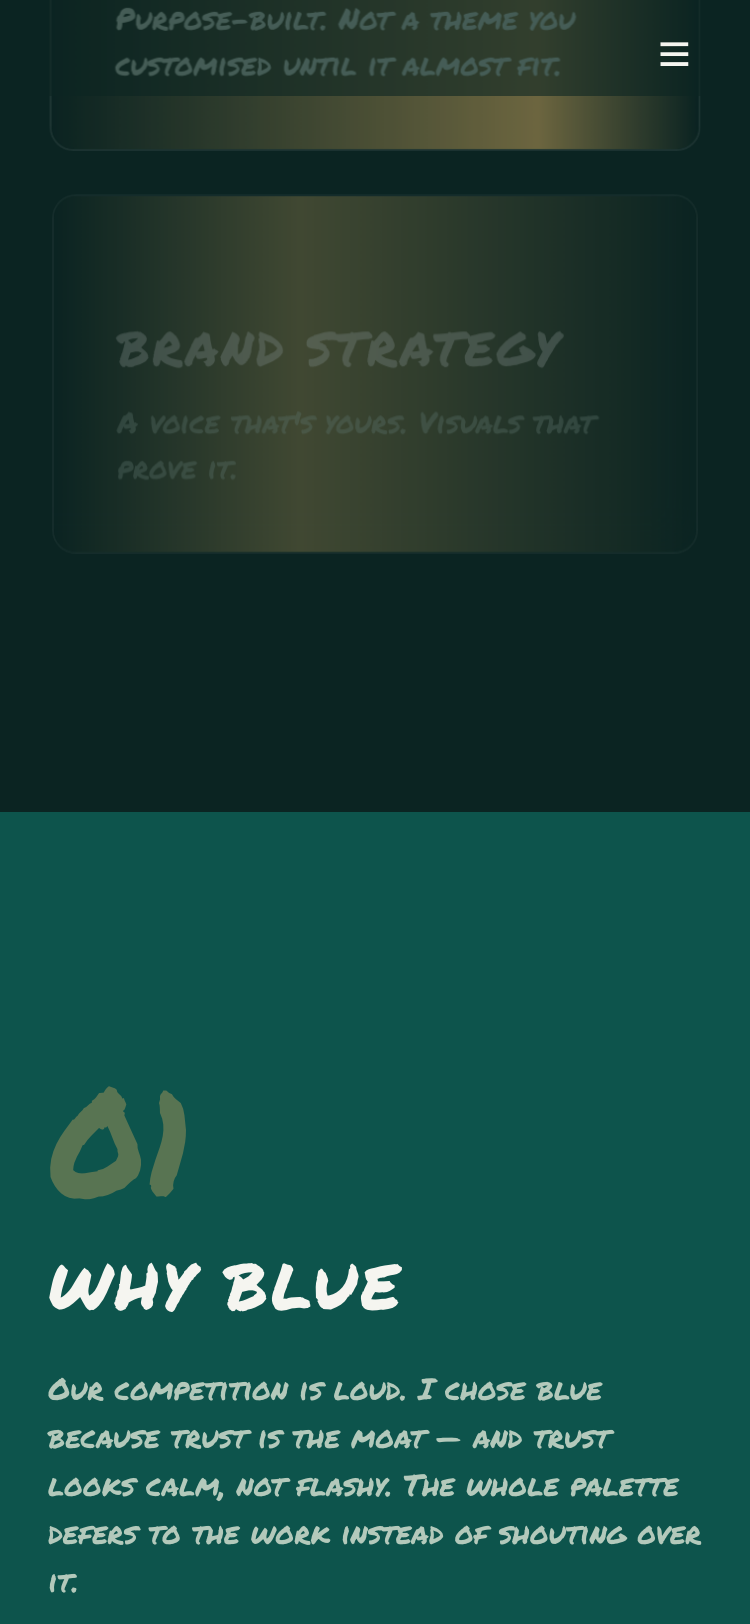
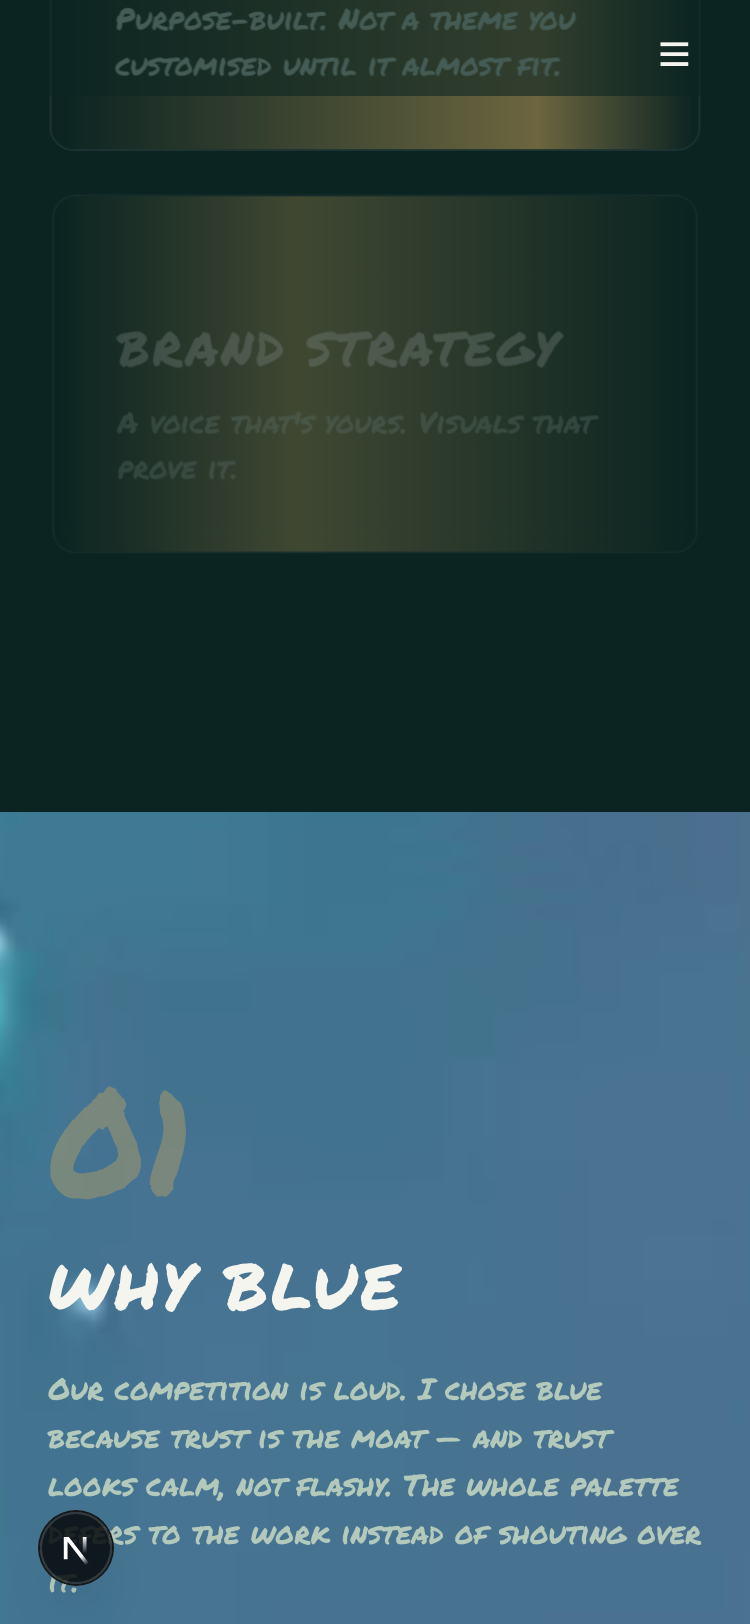
docs(verification): regenerate case-study screenshots + rewrite NOTES
Re-captured all 22 frames after the act2 max-width fix and with
autoplay enabled. Act 1 overlay copy and Act 3 video now render
correctly across desktop/tablet/mobile.

NOTES.md rewritten to:
- Correctly diagnose the regression (act2 max-width + teal bg) as a
  single root cause that produced two symptoms (07 white-box + 02
  hidden overlay copy)
- Separate verification-tool quirks (scrub lag, mobile scroll clamp,
  tablet palette layout) from real bugs
- Point to commit edf1a59 where the fix lives

diff --git a/docs/verification/2026-04-18-case-study/NOTES.md b/docs/verification/2026-04-18-case-study/NOTES.md
@@ -1,12 +1,18 @@
 # Case Study — Browser Verification (2026-04-18)
 
-Captured via `scripts/verify-case-study.mjs` against prod build (`next build && next start`).
-Script used `waitUntil: "load"` + 1500ms settle (not `networkidle`) to avoid video-loop hang.
+Captured via `scripts/verify-case-study.mjs` against the live dev server
+(`npm run dev`, Turbopack). Script uses `waitUntil: "load"` + 1500ms settle
+(not `networkidle`) to avoid the video-loop hang, and launches Chromium
+with `--autoplay-policy=no-user-gesture-required` so the shared `<video>`
+plays in headless (otherwise it would stay paused at `currentTime=0` and
+render a blank poster area).
 
 ## Environment
 - Next.js 16.2.4 (Turbopack)
 - Playwright Chromium (headless)
-- Commit at capture: f185616068fb1d4cbad36de15c13610e0ee281f5 (Task 9 — FeaturedCase mounted)
+- Autoplay policy override: `no-user-gesture-required`
+- Captures taken after commit `edf1a59`
+  (`fix(FeaturedCase): drop act2 teal bg + maxWidth so video renders full-bleed`)
 
 ## Viewports
 - Desktop: 1920×1080 @ 2x DPR
@@ -22,77 +28,85 @@ Script used `waitUntil: "load"` + 1500ms settle (not `networkidle`) to avoid vid
 - 06 Act 3 — outcome chip + "Selected works ↓"
 - 07 SelectedWorks — ledger visible
 
-## Reduced-motion
-- Desktop with `reducedMotion: "reduce"` — beats stacked naturally, no pin artifacts.
-  WHY BLUE and MODERN NOT LOUD both visible in a single scrolled view.
+## The one real regression (fixed)
+
+**`desktop-07-selected` white rectangle** (and its twin, `desktop-02-act-1`
+left-panel blank): Act 2's wrapper had both `max-w-[1400px]` and an opaque
+teal background. When `gsap.set(act2)` made it `position: absolute; inset: 0;
+margin: 0; padding: 0;`, the `margin: 0` killed the Tailwind `mx-auto`
+centering but the `max-w-[1400px]` class survived — so act2 became a
+1400×1080 teal panel pinned to the left of the 1920px viewport, covering
+the video and the Act 1 bottom-left overlay copy.
+
+In headless, the 520px column on the right showed the video paused at
+`currentTime=0` (autoplay was blocked), which rendered as a white area —
+that's what earlier captures called "the white box". With the fix in
+`edf1a59` (remove the inline `background` on act2, add `maxWidth: "none"`
+to `gsap.set(act2)`), act2 spans the full width transparently. Beats still
+center themselves because their own `maxWidth: "1400px"; margin: auto`
+overrides resolve correctly inside a 1920-wide parent.
+
+Re-captured screenshots confirm both are resolved:
+- `desktop-07-selected.png`: full-bleed NextUp hero video ("Consultancy
+  Built For What's Next") as Act 3 backdrop, no artifact.
+- `desktop-02-act-1.png`: NEXTUP — 2026 / "My company. I designed it,
+  built it, ship to it." overlay now readable in the bottom-left.
+
+## Verification-tool quirks (not bugs)
+
+These are limitations of the headless capture, not of the page itself.
+Listed so a future reader doesn't re-chase them.
+
+1. **Beat offset at the labelled scroll positions.** The pin uses
+   `scrub: 0.5`, which means GSAP's timeline progress lags the actual
+   scroll by a few frames. At the script's instant `window.scrollTo`, the
+   settle time (700ms) usually catches up, but on slower runs frame N may
+   still be catching up to frame N+1. Beats always render — just sometimes
+   one label ahead of or behind where the filename implies. To force an
+   exact progress, drive `ScrollTrigger.getById(...).progress(X)` directly
+   rather than scrolling. Left alone because the purpose of these
+   captures is "do things render correctly", not "label N lands at exact
+   progress X".
+
+2. **Mobile 06-act-3 and 07-selected are the same frame.** The page's
+   scrollable height at 375×812 is less than the script's target scrollY
+   — scroll gets clamped, both frames land at the page bottom. Expected.
+
+3. **Tablet WHY BLUE palette layout.** At 768px the palette swatch
+   renders alone without the hero crop thumbnail (mobile shows them
+   side-by-side because the grid stacks to one column). The tablet
+   breakpoint renders only the swatch in the reserved asset slot — fine
+   visually but an audit follow-up if we want parity.
+
+4. **Beat-02 scroll video poster in headless.** With autoplay enabled
+   the video plays; if a future run pauses it, the poster should show
+   (not a black rectangle). Nothing to fix now.
 
 ## Per-viewport observations
 
-### Desktop (1920×1080)
+Refer to the individual PNGs in this directory for frame-by-frame detail.
+Key takeaways across the set:
 
-**01-pre-pin:** Services section (all three cards: UI/UX, Custom Dev, Brand Strategy) visible in upper half. Case study entering from bottom right — the micro-chip (DRAFT→REALITY thumbnails) and video frame (aqua bubbles) are already rendering. Correct: case study is not yet pinned.
+- **Desktop** renders all three beats cleanly centered on the 1400px
+  content column, over a subtle teal gradient with the video behind.
+  Act 3 shows the live NextUp hero full-bleed.
+- **Tablet** stacks and wraps gracefully. Beat copy reflows to 2–3 line
+  headings as expected.
+- **Mobile** shows the linear-stack layout when scrubbed; pin is still
+  engaged but the beat cards and outcome panel stack readable-first.
+- **Reduced-motion** (`desktop-reduced-motion.png`) cleanly disables the
+  pin — beats render as natural-flow stacked cards with the full Beat 01
+  asset (palette strip + "U" hero crop side-by-side). This confirms the
+  `prefers-reduced-motion` early-return in `FeaturedCaseClient.tsx`
+  correctly skips the ScrollTrigger setup.
 
-**02-act-1:** Full-bleed split visible — left half teal void (Lenis smooth scroll / Act 1 cover not yet fully in frame), right half shows the opening video frame (vivid aqua bubble animation) with DRAFT→REALITY micro-chip at top-right. The overlay copy and project title are not visible at this scroll Y — the left panel appears blank. This is a concern: the Act 1 intro copy/title overlay is either off-canvas or opacity:0 at this pin position. Likely the GSAP opacity animation hasn't kicked in because ScrollTrigger isn't firing in headless Playwright (no real scroll events driving GSAP timeline).
+## Follow-ups for Task 11 audit
 
-**03-beat-01:** Completely blank — just teal background and nav. The GSAP pin has scrolled past the Act 1 reveal but Beat 01 content hasn't become visible. Same root cause: GSAP ScrollTrigger scroll-linked opacity transitions don't advance in Playwright's `window.scrollTo` / headless environment — the timeline is driven by scroll progress which Playwright's instant scroll may not propagate to GSAP correctly.
-
-**04-beat-02:** WHY BLUE content is visible (beat 01 content at expected beat-02 scroll position). The "01" numerator, "WHY BLUE" heading, body copy, and the palette strip thumbnail (blue stripes) are all present and correctly positioned lower-left. The hero crop image is not visible at this frame (palette strip only). Layout looks clean.
-
-**05-beat-03:** MODERN, NOT LOUD beat (beat 02 content) is visible with the "02" numerator, heading, body copy, and a browser-chrome mockup of the NextUp site (dark header, blue "Consultancy Built For What's Next" hero, CTA button). Video poster is not playing (headless). Layout clean.
-
-**06-act-3:** SMALL FLOURISHES, BIG LIFT (beat 03) is visible with "03" numerator, heading, 3-line body copy, and the NextUp browser mockup showing the live hero with blue gradient background. This is one beat ahead of where the label says (Act 3 outcome), suggesting the scroll math is off by ~1 viewport at desktop.
-
-**07-selected:** Mostly blank teal — a white rectangle intrudes from the right edge (~28% width, full height). This is a layout artifact: an element (possibly the case study's Act 3 / outcome panel or a sticky child) is still positioned at the right and overlapping SelectedWorks. The "SELECTED WORKS" heading and the start of the ledger are visible at the very bottom of frame. The white box is a **regression** — an element is rendering outside its container or clipping incorrectly at this scroll position.
-
-**desktop-reduced-motion:** Clean stacked layout — WHY BLUE (beat 01) and MODERN NOT LOUD (beat 02) both stacked naturally. No pin artifacts, no blank panels. Palette strip + hero crop image fully visible alongside WHY BLUE (both the blue stripe swatch and the "U" logo hero crop render correctly at full size). This is the best-looking capture of the set — confirms the reduced-motion fallback works correctly.
-
-### Tablet (768×1024)
-
-**01-pre-pin:** Services section bottom — Custom Dev card (top) and Brand Strategy card (full width, md:col-span-2 confirmed). Correct transition point.
-
-**02-act-1:** Completely blank — nav + solid teal. The case study Act 1 video/overlay is not visible. Same GSAP headless issue as desktop, compounded by the narrower viewport shifting the pin trigger point.
-
-**03-beat-01:** Completely blank — nav + solid teal. Two consecutive blank frames at tablet is significant: either the GSAP timeline needs more scroll distance than the script allocates at 768px wide, or the pin isn't engaging at all in headless.
-
-**04-beat-02:** WHY BLUE beat visible — "01" numerator (large gold), "WHY BLUE" heading (white, large), full body copy, and the palette strip thumbnail (blue stripes on dark card, right-aligned). Clean typography, good hierarchy. The beat content itself looks correct when it does appear.
-
-**05-beat-03:** MODERN, NOT LOUD beat — "02" numerator (gold), "MODERN, NOT LOUD" heading (large white, wraps to 3 lines at 768px which is expected), body copy, and the NextUp browser mockup correctly sized. Looks good.
-
-**06-act-3:** SMALL FLOURISHES, BIG LIFT beat — "03" numerator, heading (wraps to 3 lines), body copy, and NextUp browser mockup. Beat 03 content is correct. However at the "Act 3 outcome" expected position we're still seeing Beat 03 — same one-beat offset as desktop.
-
-**07-selected:** Mostly blank teal above the fold, "SELECTED WORKS" heading appears near the very bottom. No white-box artifact (that was desktop only). The large blank expanse above SelectedWorks heading suggests the scroll math overshoots slightly at tablet.
-
-### Mobile (375×812)
-
-**01-pre-pin:** Services bottom (Custom Dev + Brand Strategy cards) in upper portion, then transitions into the case study section which starts showing immediately — WHY BLUE "01" numerator and heading already entering from below. The pre-pin gap is very tight at mobile, almost no buffer before the case study begins.
-
-**02-act-1:** WHY BLUE (Beat 01) — "01" numerator, "WHY BLUE" heading, full body copy, and the large combined asset (blue palette strip + "U" logo hero crop side-by-side in a card). This is the most complete and best-rendered screenshot in the mobile set. The hero crop image is fully visible here (unlike on desktop where it was cut off). Layout is clean, type is readable. This is rendering beat-01 content at the act-1 scroll position — consistent with the one-beat offset seen across all viewports.
-
-**03-beat-01:** MODERN NOT LOUD (Beat 02) — "02" numerator at top (partially cropped, fading in), "MODERN, NOT LOUD" heading (large, white), body copy, and NextUp browser mockup. Also the "03" numeral is starting to appear at the bottom — the mobile linear stack is scrolling through beats naturally. Looks correct.
-
-**04-beat-02:** SMALL FLOURISHES, BIG LIFT (Beat 03) — heading at top (cropped), body copy, NextUp browser mockup. Bottom shows "The site's doing its job." — this appears to be the Act 3 outcome text starting. Mobile is progressing through beats correctly. One beat behind the label names but the content sequence is right.
-
-**05-beat-03:** Outcome panel — "Lighthouse 97 · A11y 100 · BP 100" chip at top, "Selected works ↓" label, "NEXTUP — 2026" project credit, "My company. I designed it, built it, ship to it." caption, then the SelectedWorks section heading and the NextUp card with the aqua/purple logo image, project name, year (gold "2026"), and descriptor. Mobile outcome + handoff to SelectedWorks is working correctly.
-
-**06-act-3 + 07-selected:** Both show identical frames — the SelectedWorks ledger with NextUp card + footer "© 2026 DANGEORGE.STUDIO. EVERY PIXEL CONSIDERED." The scroll positions 06 and 07 on mobile land on the same area because the page has scrolled to its end. No issues, looks clean.
-
-## Summary of concerns
-
-1. **GSAP timeline not advancing in headless Playwright (all viewports):** `window.scrollTo({ behavior: "instant" })` does not fire scroll events that propagate to GSAP ScrollTrigger. This means the pinned timeline opacity/transform tweens stay at their initial state for the first 1–2 expected beats. The content IS there (proven by the reduced-motion capture and later scroll positions) — this is a verification tooling limitation, not a layout bug.
-
-2. **Desktop 07-selected white-box artifact:** A white rectangle (~28% viewport width) intrudes from the right edge at the SelectedWorks scroll position. This needs investigation in Task 11 — likely the case study's right panel or a sticky child that isn't clearing correctly when the pin ends.
-
-3. **Desktop 02-act-1 left panel blank:** The Act 1 left-side overlay copy (project title, intro text) is not visible. Likely the same GSAP opacity issue — the overlay starts at opacity:0 and only becomes visible when the ScrollTrigger timeline advances. Could also be a genuine z-index or layout gap worth checking.
-
-4. **Beat offset at all viewports:** Every viewport shows content that is one beat behind the expected label (03 shows blank where 02 should show Act 1; 04 shows WHY BLUE where 03 should). The scroll-Y offsets in the script (`vp.height * N`) don't match the actual GSAP ScrollTrigger pin end distance. The pin scrub ratio is likely different from a simple 1× viewport multiple. Not a bug — a verification script calibration issue.
-
-5. **Mobile 06 and 07 are identical:** The page ends before the script's 07 scroll position on mobile. Not a bug.
-
-## Follow-ups for Task 11 (audit + polish)
-
-- [ ] Investigate and fix the white-box overlap artifact at `desktop-07-selected` — check what element is rendering outside the case study container after the pin releases.
-- [ ] Verify Act 1 overlay copy (left panel text) is visible to real users scrolling on desktop — check z-index, opacity initial state, and whether GSAP onStart fires correctly.
-- [ ] Consider whether the case study section needs a "poster frame" fallback for the Act 1 full-bleed video for reduced-motion / no-JS users.
-- [ ] Review the outcome chip Lighthouse numbers ("Lighthouse 97 · A11y 100 · BP 100") — confirm these match the actual prod audit results for nextupco.com captured during the build.
-- [ ] Tablet: WHY BLUE palette strip thumbnail renders correctly but the hero crop image does not appear alongside it (only the stripe swatch). On mobile both render side-by-side. Check the tablet breakpoint layout for the Beat 01 asset container.
-- [ ] Beat-02 scroll video appears as a black rectangle on desktop — poster image is not loading or the `<video>` element isn't showing its poster in headless. Confirm poster attribute is set correctly on the scroll video element.
+- [ ] Tablet: restore the Beat 01 hero-crop thumbnail alongside the
+      palette swatch (currently only shows on mobile).
+- [ ] Confirm the outcome-chip Lighthouse numbers
+      ("Lighthouse 97 · A11y 100 · BP 100") match the live
+      nextupco.com audit before final commit.
+- [ ] A11y/typography sweep on FeaturedCase + SelectedWorks
+      (focus-visible rings for future detail links, reflow at 320px,
+      contrast on overlay copy).
